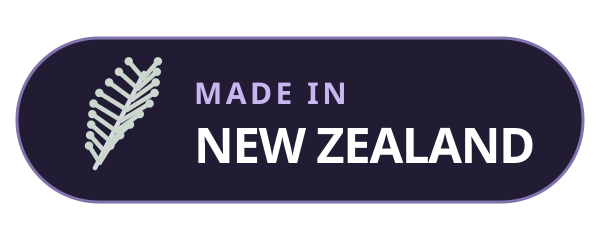
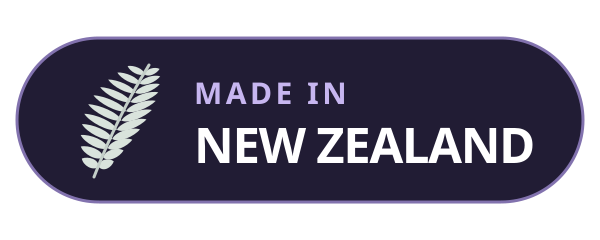
fix(branding): refine fern and show NZ badge prominently
- Replace skeletal fern with a tapered leaflet silhouette.
- Show branding at the top of Settings and in About.
- Test first-screen visibility and About placement.

Changed region(s): [[0.12, 0.2333, 0.27, 0.7583]]

diff --git a/lib/settings/settings_page.dart b/lib/settings/settings_page.dart
@@ -148,6 +148,11 @@ class _SettingsPageState extends State<SettingsPage>
               ),
             ),
             SizedBox(height: desktop ? 20 : 8),
+            if (_searchCtrl.text.isEmpty)
+              const Padding(
+                padding: EdgeInsets.only(top: 2, bottom: 8),
+                child: MadeInNewZealandBadge(),
+              ),
             Expanded(
               child: Padding(
                 padding: desktop
@@ -161,98 +166,82 @@ class _SettingsPageState extends State<SettingsPage>
                         children: filtered,
                       )
                     : isDesktopLayout(context)
-                    ? Column(
-                        children: [
-                          Expanded(
-                            child: GridView.builder(
-                              padding: const EdgeInsets.only(bottom: 24),
-                              gridDelegate:
-                                  const SliverGridDelegateWithMaxCrossAxisExtent(
-                                    maxCrossAxisExtent: 520,
-                                    crossAxisSpacing: 14,
-                                    mainAxisSpacing: 14,
-                                    mainAxisExtent: 112,
-                                  ),
-                              itemCount: _categories.length,
-                              itemBuilder: (context, index) {
-                                final category = _categories[index];
-                                final colors = Theme.of(context).colorScheme;
-                                return Card(
-                                  color: colors.surfaceContainerLow,
-                                  clipBehavior: Clip.antiAlias,
-                                  child: InkWell(
-                                    onTap: () => _openCategory(category.$4),
-                                    child: Padding(
-                                      padding: const EdgeInsets.all(20),
-                                      child: Row(
+                    ? GridView.builder(
+                        padding: const EdgeInsets.only(bottom: 24),
+                        gridDelegate:
+                            const SliverGridDelegateWithMaxCrossAxisExtent(
+                              maxCrossAxisExtent: 520,
+                              crossAxisSpacing: 14,
+                              mainAxisSpacing: 14,
+                              mainAxisExtent: 112,
+                            ),
+                        itemCount: _categories.length,
+                        itemBuilder: (context, index) {
+                          final category = _categories[index];
+                          final colors = Theme.of(context).colorScheme;
+                          return Card(
+                            color: colors.surfaceContainerLow,
+                            clipBehavior: Clip.antiAlias,
+                            child: InkWell(
+                              onTap: () => _openCategory(category.$4),
+                              child: Padding(
+                                padding: const EdgeInsets.all(20),
+                                child: Row(
+                                  children: [
+                                    Container(
+                                      width: 48,
+                                      height: 48,
+                                      decoration: BoxDecoration(
+                                        color: colors.primaryContainer,
+                                        borderRadius: BorderRadius.circular(14),
+                                      ),
+                                      child: Icon(
+                                        category.$1,
+                                        color: colors.onPrimaryContainer,
+                                      ),
+                                    ),
+                                    const SizedBox(width: 16),
+                                    Expanded(
+                                      child: Column(
+                                        mainAxisAlignment:
+                                            MainAxisAlignment.center,
+                                        crossAxisAlignment:
+                                            CrossAxisAlignment.start,
                                         children: [
-                                          Container(
-                                            width: 48,
-                                            height: 48,
-                                            decoration: BoxDecoration(
-                                              color: colors.primaryContainer,
-                                              borderRadius:
-                                                  BorderRadius.circular(14),
-                                            ),
-                                            child: Icon(
-                                              category.$1,
-                                              color: colors.onPrimaryContainer,
-                                            ),
-                                          ),
-                                          const SizedBox(width: 16),
-                                          Expanded(
-                                            child: Column(
-                                              mainAxisAlignment:
-                                                  MainAxisAlignment.center,
-                                              crossAxisAlignment:
-                                                  CrossAxisAlignment.start,
-                                              children: [
-                                                Text(
-                                                  category.$2,
-                                                  maxLines: 1,
-                                                  overflow:
-                                                      TextOverflow.ellipsis,
-                                                  style: Theme.of(context)
-                                                      .textTheme
-                                                      .titleMedium
-                                                      ?.copyWith(
-                                                        fontWeight:
-                                                            FontWeight.w700,
-                                                      ),
+                                          Text(
+                                            category.$2,
+                                            maxLines: 1,
+                                            overflow: TextOverflow.ellipsis,
+                                            style: Theme.of(context)
+                                                .textTheme
+                                                .titleMedium
+                                                ?.copyWith(
+                                                  fontWeight: FontWeight.w700,
                                                 ),
-                                                const SizedBox(height: 4),
-                                                Text(
-                                                  category.$3,
-                                                  maxLines: 2,
-                                                  overflow:
-                                                      TextOverflow.ellipsis,
-                                                  style: Theme.of(context)
-                                                      .textTheme
-                                                      .bodySmall
-                                                      ?.copyWith(
-                                                        color: colors
-                                                            .onSurfaceVariant,
-                                                      ),
-                                                ),
-                                              ],
-                                            ),
                                           ),
-                                          const Icon(
-                                            Icons.chevron_right_rounded,
+                                          const SizedBox(height: 4),
+                                          Text(
+                                            category.$3,
+                                            maxLines: 2,
+                                            overflow: TextOverflow.ellipsis,
+                                            style: Theme.of(context)
+                                                .textTheme
+                                                .bodySmall
+                                                ?.copyWith(
+                                                  color:
+                                                      colors.onSurfaceVariant,
+                                                ),
                                           ),
                                         ],
                                       ),
                                     ),
-                                  ),
-                                );
-                              },
+                                    const Icon(Icons.chevron_right_rounded),
+                                  ],
+                                ),
+                              ),
                             ),
-                          ),
-                          const Padding(
-                            padding: EdgeInsets.only(bottom: 12),
-                            child: MadeInNewZealandBadge(),
-                          ),
-                        ],
+                          );
+                        },
                       )
                     : ListView(
                         padding: const EdgeInsets.only(bottom: 116),
@@ -265,8 +254,6 @@ class _SettingsPageState extends State<SettingsPage>
                               onTap: () => _openCategory(category.$4),
                             ),
                           ),
-                          const SizedBox(height: 16),
-                          const Center(child: MadeInNewZealandBadge()),
                         ],
                       ),
               ),

diff --git a/test/settings_page_test.dart b/test/settings_page_test.dart
@@ -1,5 +1,6 @@
 import 'package:drift/drift.dart' hide isNull;
 import 'package:flex/database/database.dart';
+import 'package:flex/about_page.dart';
 import 'package:flex/settings/settings_page.dart';
 import 'package:flutter/material.dart';
 import 'package:flutter_test/flutter_test.dart';
@@ -30,20 +31,14 @@ void main() {
   ) async {
     await render(tester, surfaceSize: const Size(390, 844));
     const badge = Key('made-in-new-zealand-branding');
-    await tester.scrollUntilVisible(
-      find.byKey(badge),
-      180,
-      scrollable: find
-          .descendant(
-            of: find.byType(ListView).first,
-            matching: find.byType(Scrollable),
-          )
-          .first,
-    );
-    await tester.pumpAndSettle();
-
     expect(find.byKey(badge), findsOneWidget);
-    expect(tester.getRect(find.byKey(badge)).width, 200);
+    final rect = tester.getRect(find.byKey(badge));
+    expect(rect.width, 200);
+    expect(
+      rect.top,
+      greaterThan(tester.getRect(find.byType(SearchBar)).bottom),
+    );
+    expect(rect.bottom, lessThan(tester.getRect(find.text('Workouts')).top));
     expect(tester.takeException(), isNull);
   });
 
@@ -55,6 +50,22 @@ void main() {
     expect(
       find.byKey(const Key('made-in-new-zealand-branding')),
       findsOneWidget,
+    );
+    expect(tester.takeException(), isNull);
+  });
+
+  testWidgets('About page shows New Zealand branding beneath the app icon', (
+    WidgetTester tester,
+  ) async {
+    final harness = await FlexTestHarness.create();
+    await harness.pump(tester, const AboutPage());
+    await tester.pumpAndSettle();
+
+    final badge = find.byKey(const Key('made-in-new-zealand-branding'));
+    expect(badge, findsOneWidget);
+    expect(
+      tester.getRect(badge).top,
+      greaterThan(tester.getRect(find.byType(Image).first).bottom),
     );
     expect(tester.takeException(), isNull);
   });

diff --git a/lib/about_page.dart b/lib/about_page.dart
@@ -1,4 +1,5 @@
 import 'package:flex/l10n/l10n.dart';
+import 'package:flex/made_in_new_zealand_badge.dart';
 import 'package:flex/settings/whats_new.dart';
 import 'package:flex/platform_page_route.dart';
 import 'package:flutter/material.dart';
@@ -24,6 +25,8 @@ class AboutPage extends StatelessWidget {
               height: 150,
             ),
           ),
+          const Center(child: MadeInNewZealandBadge()),
+          const SizedBox(height: 12),
           ListTile(
             title: Text(context.l10n.donate),
             leading: const Icon(Icons.favorite_outline),
